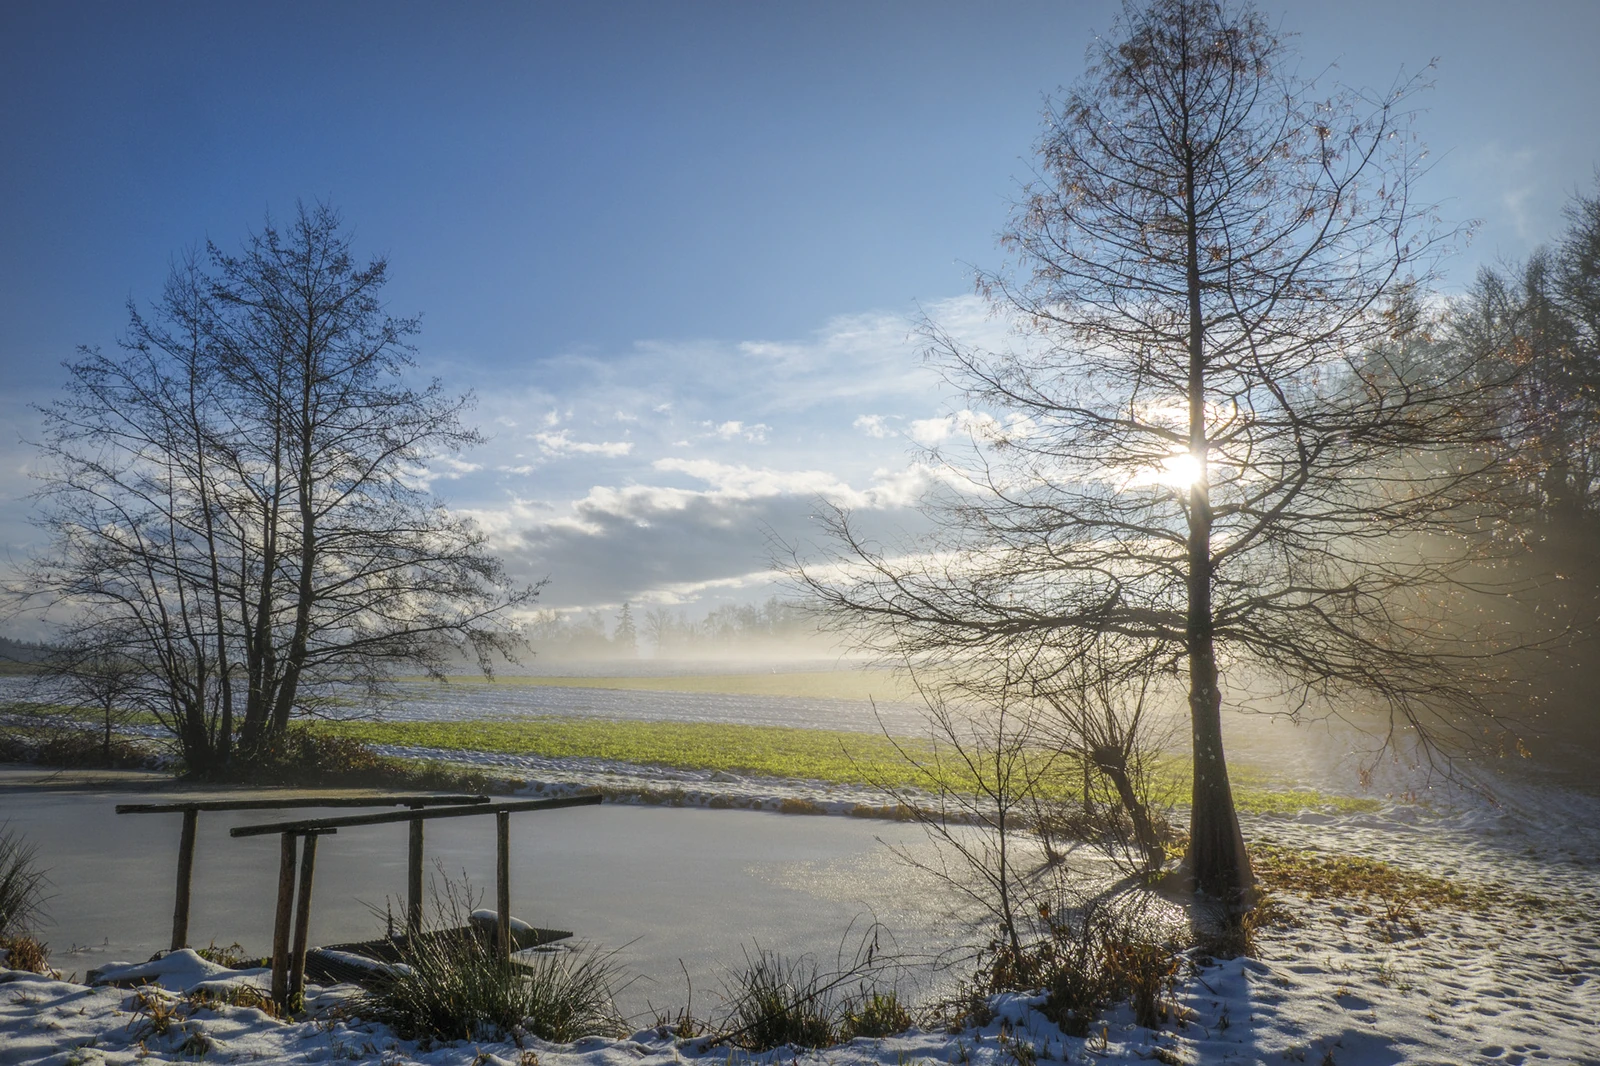
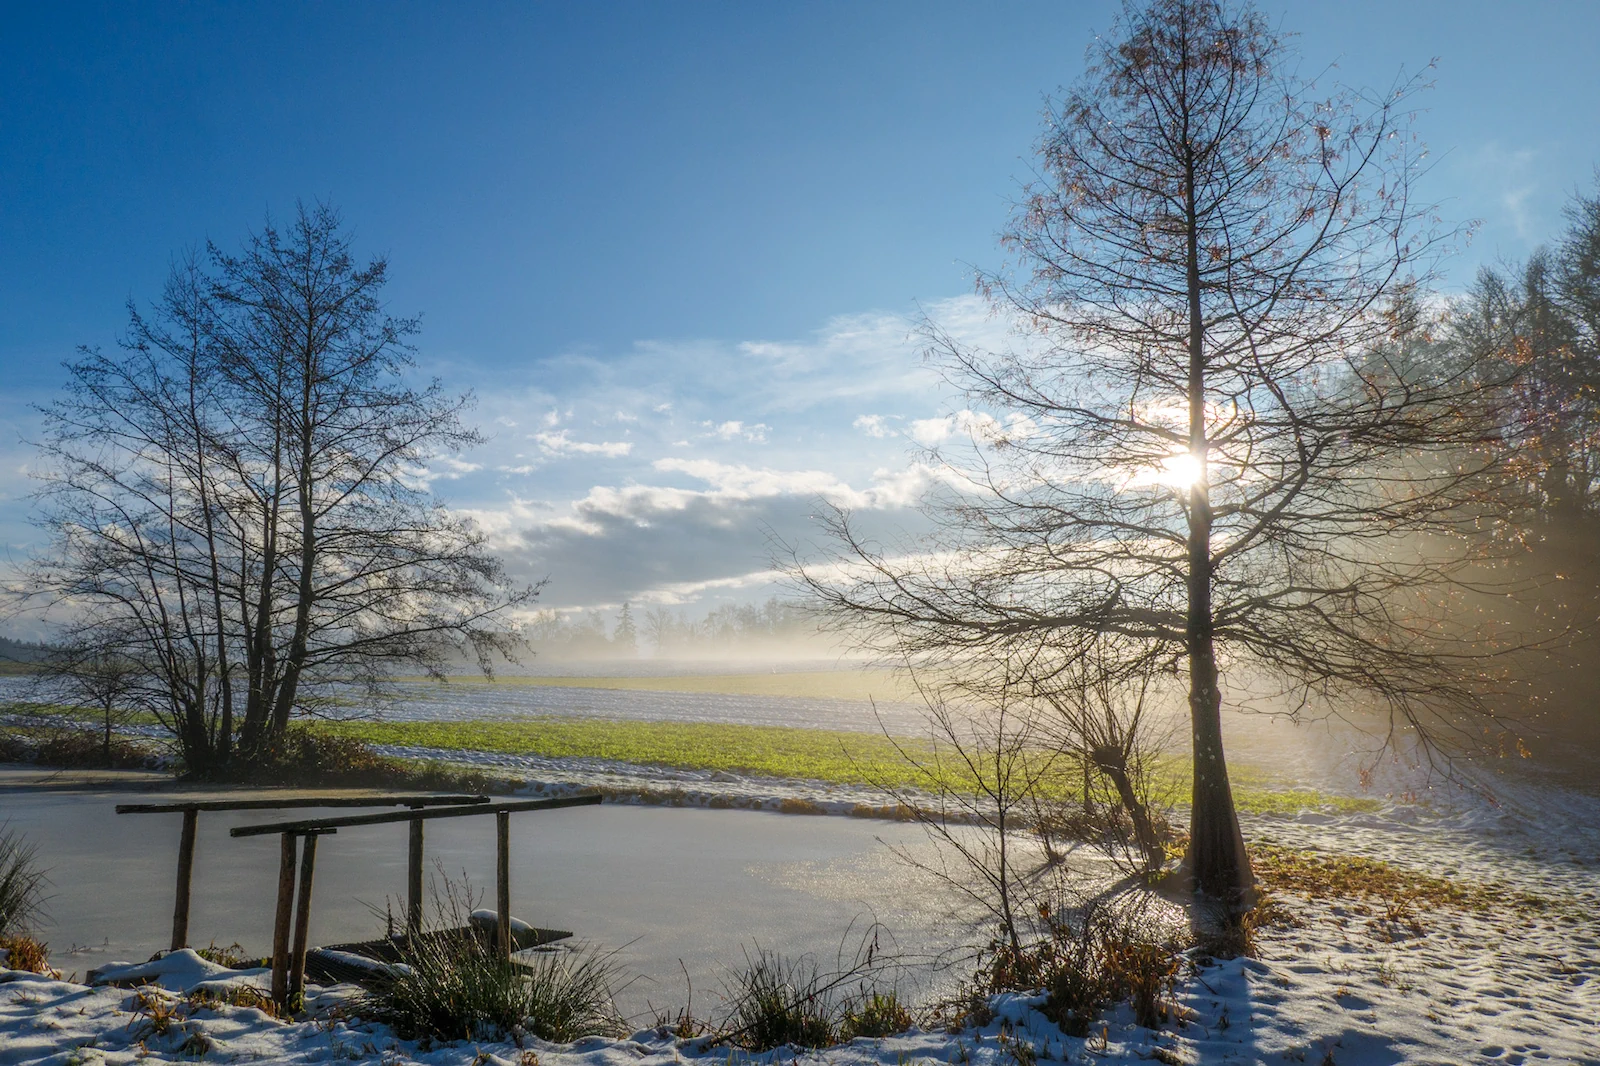
image optimizer off for hero

Changed region(s): [[0.0, 0.0, 0.375, 0.4024], [0.875, 0.0, 1.0, 0.2167], [0.9688, 0.9287, 1.0, 0.9597]]

diff --git a/app/page.js b/app/page.js
@@ -18,9 +18,8 @@ export default function HomePage() {
                 src="/albums/astro/cover.webp"
                 alt="Astro"
                 fill
-                sizes="(max-width: 480px) 100vw, (max-width: 1024px) 50vw, 33vw"
+                sizes="(max-width: 560px) 100vw, (max-width: 900px) 50vw, 33vw"
                 className={styles.coverImg}
-                priority
               />
             </div>
             <div className={styles.title}>Astro</div>
@@ -32,9 +31,8 @@ export default function HomePage() {
                 src="/albums/natur/cover.webp"
                 alt="Natur und Landschaft"
                 fill
-                sizes="(max-width: 480px) 100vw, (max-width: 1024px) 50vw, 33vw"
+                sizes="(max-width: 560px) 100vw, (max-width: 900px) 50vw, 33vw"
                 className={styles.coverImg}
-                priority
               />
             </div>
             <div className={styles.title}>Natur und Landschaft</div>
@@ -46,9 +44,8 @@ export default function HomePage() {
                 src="/albums/tiere/cover.webp"
                 alt="Tiere"
                 fill
-                sizes="(max-width: 480px) 100vw, (max-width: 1024px) 50vw, 33vw"
+                sizes="(max-width: 560px) 100vw, (max-width: 900px) 50vw, 33vw"
                 className={styles.coverImg}
-                priority
               />
             </div>
             <div className={styles.title}>Tiere</div>

diff --git a/app/HeroImageBackground.jsx b/app/HeroImageBackground.jsx
@@ -1,32 +1,21 @@
 "use client";
 
 import Image from "next/image";
-import { Overlay } from "@mantine/core";
 import classes from "./HeroImageBackground.module.css";
 
 export default function HeroImageBackground() {
   return (
     <div className={classes.wrapper} aria-label="Featured photograph">
-      {/* Keep overlay commented unless you want extra darkening on top of the vignette */}
-      {/* <Overlay color="#000" opacity={0.15} zIndex={2} /> */}
-
-    <Image
-  src="/hero.webp"
-  alt="Featured photograph"
-  fill
-  priority
-  fetchPriority="high"
-  /* Cap max delivered width on large screens; smaller = fewer bytes */
-  sizes="(max-width: 480px) 100vw,
-         (max-width: 768px) 100vw,
-         (max-width: 1200px) 100vw,
-         1600px"
-  /* Lower quality to shrink file (try 60, then 50) */
-  quality={60}
-  className={classes.heroImg}
-/>
-
-
+      <Image
+        src="/hero.webp"
+        alt="Featured photograph"
+        fill
+        priority
+        quality={90}         // boolean shorthand; correct per docs
+        sizes="100vw"     // required when using fill; hero spans viewport width
+        className={classes.heroImg}
+        unoptimized
+      />
       <div className={classes.inner} />
     </div>
   );

diff --git a/app/layout.js b/app/layout.js
@@ -19,6 +19,12 @@ export const metadata = {
   description: "Astro · Natur und Landschaft · Tiere",
 };
 
+export const viewport = {
+  width: "device-width",
+  initialScale: 1,
+  viewportFit: "cover",
+};
+
 export default function RootLayout({ children }) {
   return (
     <html lang="de">
